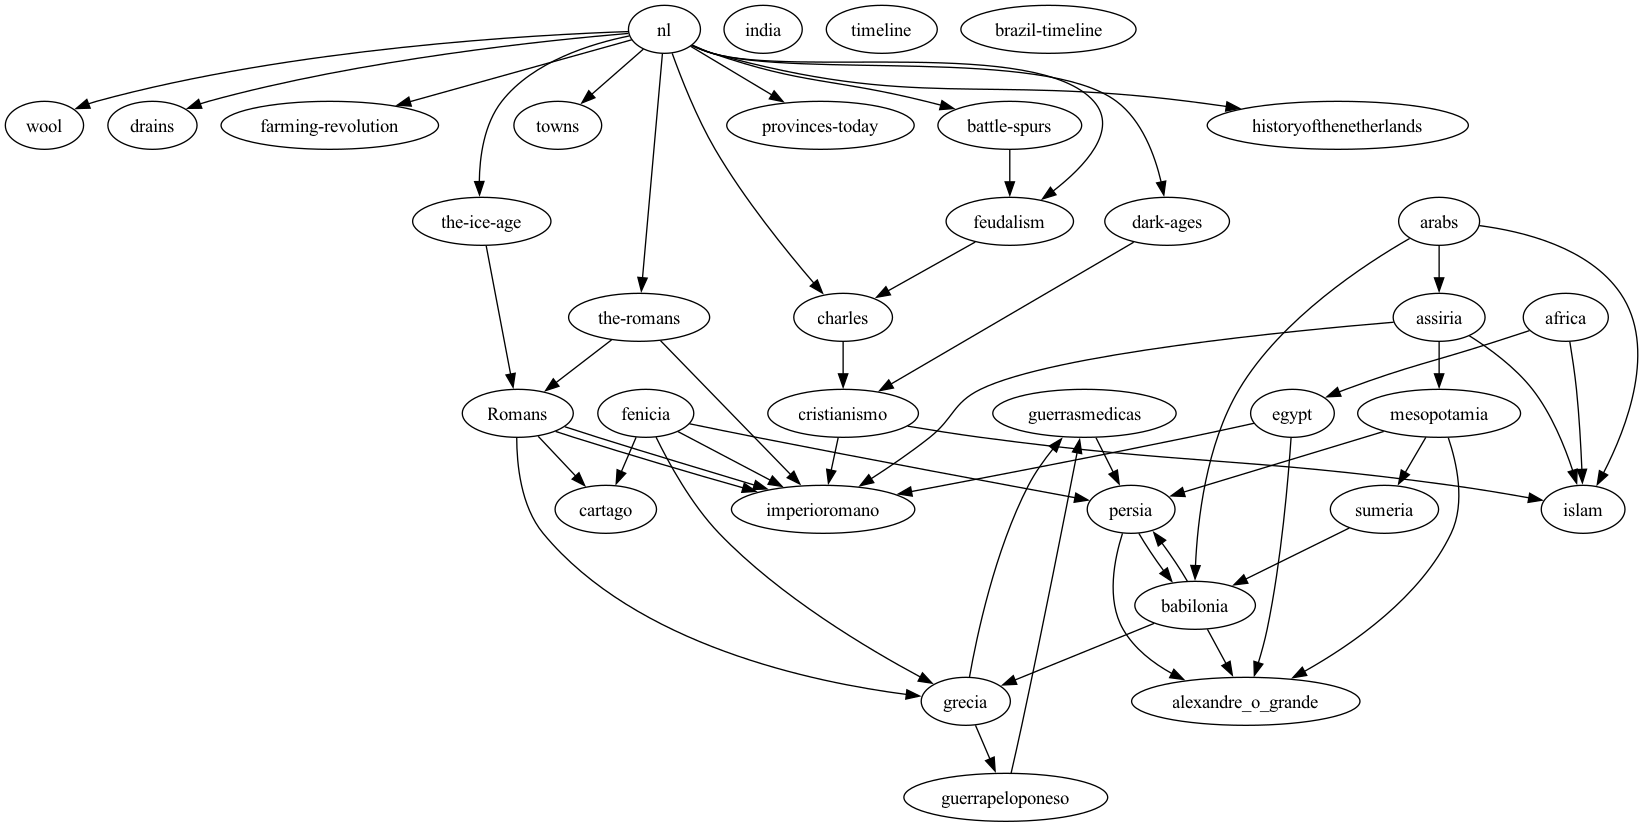
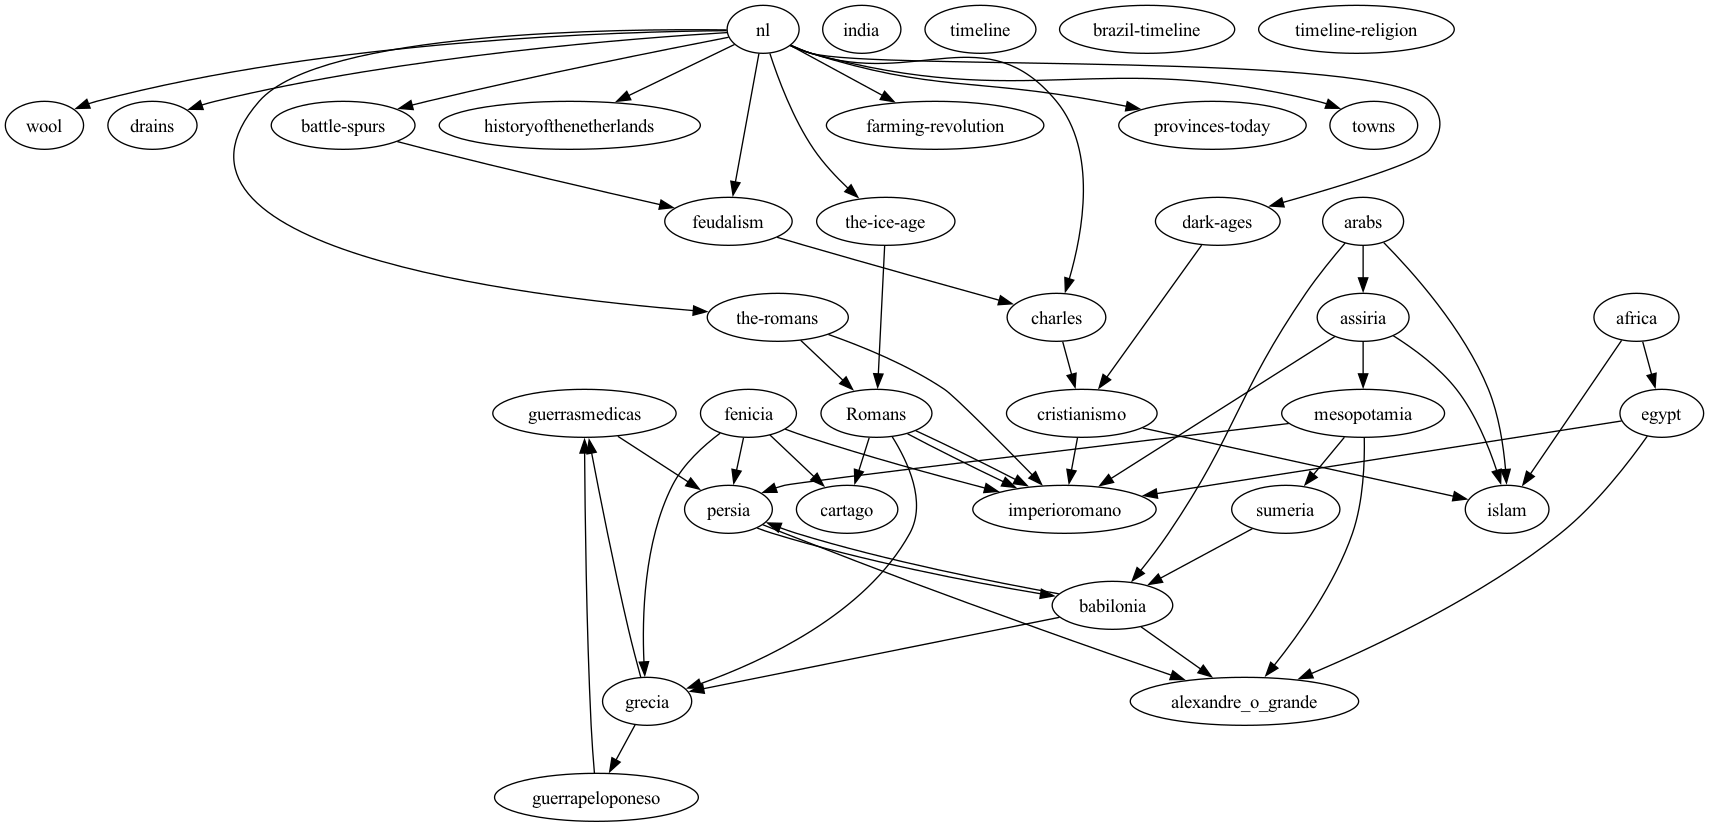
feat: timeline religions ::by sergio giraldo @ 20250110T1135CET, gpg signed

diff --git a/docs/index.html b/docs/index.html
@@ -54,7 +54,9 @@
 			<li><a href="timeline">timeline mine (markdown)</a></li>
 			<li><a href="brazil-timeline">timeline brazil (markdown)</a></li>
 			<li><a href="t.html">timeline (full)</a></li>
-
+			<li><a href="timeline-religion">timeline religions</a></li>
+		</ul>
+		<ul class="link-list"></ul>
 			<li><a href="gantt-full_mine.html">timeline mine (markwhen)</a></li>
 			<li><a href="gantt-brazil.html">timeline brazil(markwhen)</a></li>
 		</ul>

diff --git a/docs/timeline-religion.md b/docs/timeline-religion.md
@@ -1,0 +1,19 @@
+# Timeline
+
+2100 - Abraham is born in Iraq - Judaism
+
+624 - Zarathushtra is born in Iran -  Zoroastrianism
+
+563 - Siddharta Gautama (Buddha) is born in Nepal - Buddhism
+
+551 - Confucio is born in China - Confucionism
+
+500 - First writings of Hinduism
+
+| ↑ a.C - 0 - d.C ↓
+
+| 313 - Cristianity - Edict of Milan makes it the Roman Empire religion
+
+| 610 - Islam - Prophet Muhammad (Maome) revelations, start
+
+| 1517 - Lutero e Protestantismo
